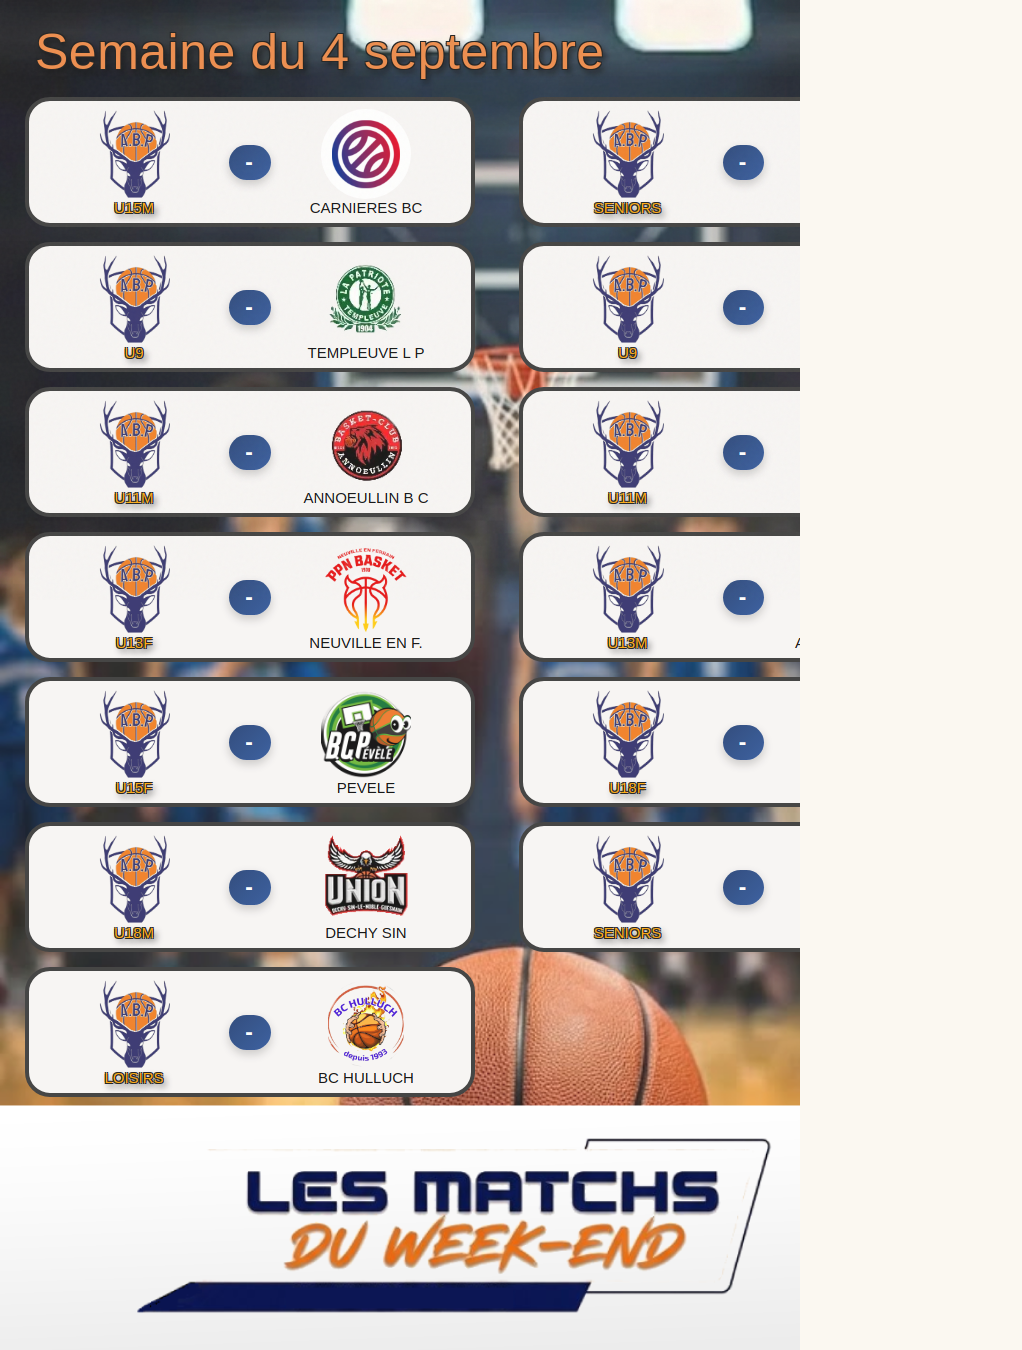
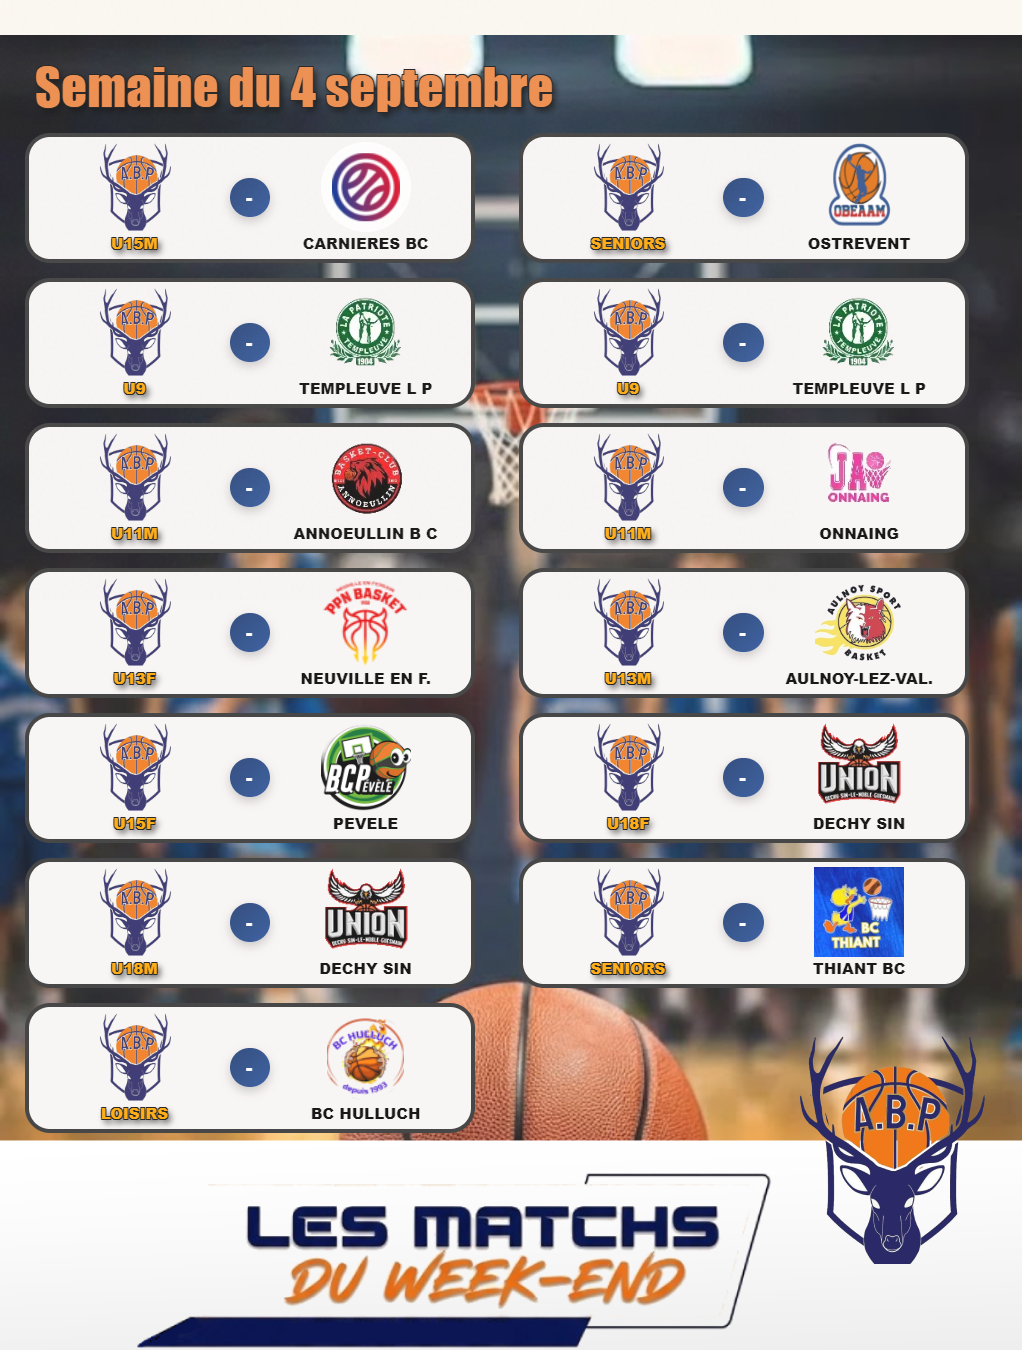
Update results et matchs screenshot

diff --git a/scripts/matchs-div-to-image.js b/scripts/matchs-div-to-image.js
@@ -42,10 +42,27 @@ const outputImg = process.argv[4];
         return document.body.getAttribute("data-rencontres-ready") === "1";
     });
 
-    // Screenshot
-    const element = await page.$("#sectionRencontres");
-    await element.screenshot({
-        path: path.join(__dirname, outputImg)
+    await page.evaluate(() => {
+        const el = document.querySelector("#contenu");
+        const rect = el.getBoundingClientRect();
+        document.body.style.height = rect.height + "px";
+        document.body.style.width = rect.width + "px";
+    });
+
+    const rect = await page.evaluate(() => {
+        const el = document.querySelector("#contenu");
+        const { x, y, width, height } = el.getBoundingClientRect();
+        return { x, y, width, height };
+    });
+
+    await page.screenshot({
+        path: path.join(__dirname, outputImg),
+        clip: {
+            x: rect.x,
+            y: rect.y,
+            width: rect.width,
+            height: rect.height
+        }
     });
 
     await browser.close();

diff --git a/pages/matchs.2026.html b/pages/matchs.2026.html
@@ -7,8 +7,8 @@
 </head>
 <body data-page="accueil">
     <div class="site-shell">
-        <main id="contenu">
-            <section class="section-wrap">
+        <main>
+            <section id="contenu" class="section-wrap">
                  <!-- La section des rencontres de la semaine -->
                 <div id="sectionRencontres">   
                 </div>

diff --git a/pages/resultats.2026.html b/pages/resultats.2026.html
@@ -7,8 +7,8 @@
 </head>
 <body data-page="accueil">
     <div class="site-shell">
-        <main id="contenu">
-            <section class="section-wrap">
+        <main>
+            <section id="contenu" class="section-wrap">
                  <!-- La section des rencontres de la semaine -->
                 <div id="sectionRencontres">   
                 </div>
